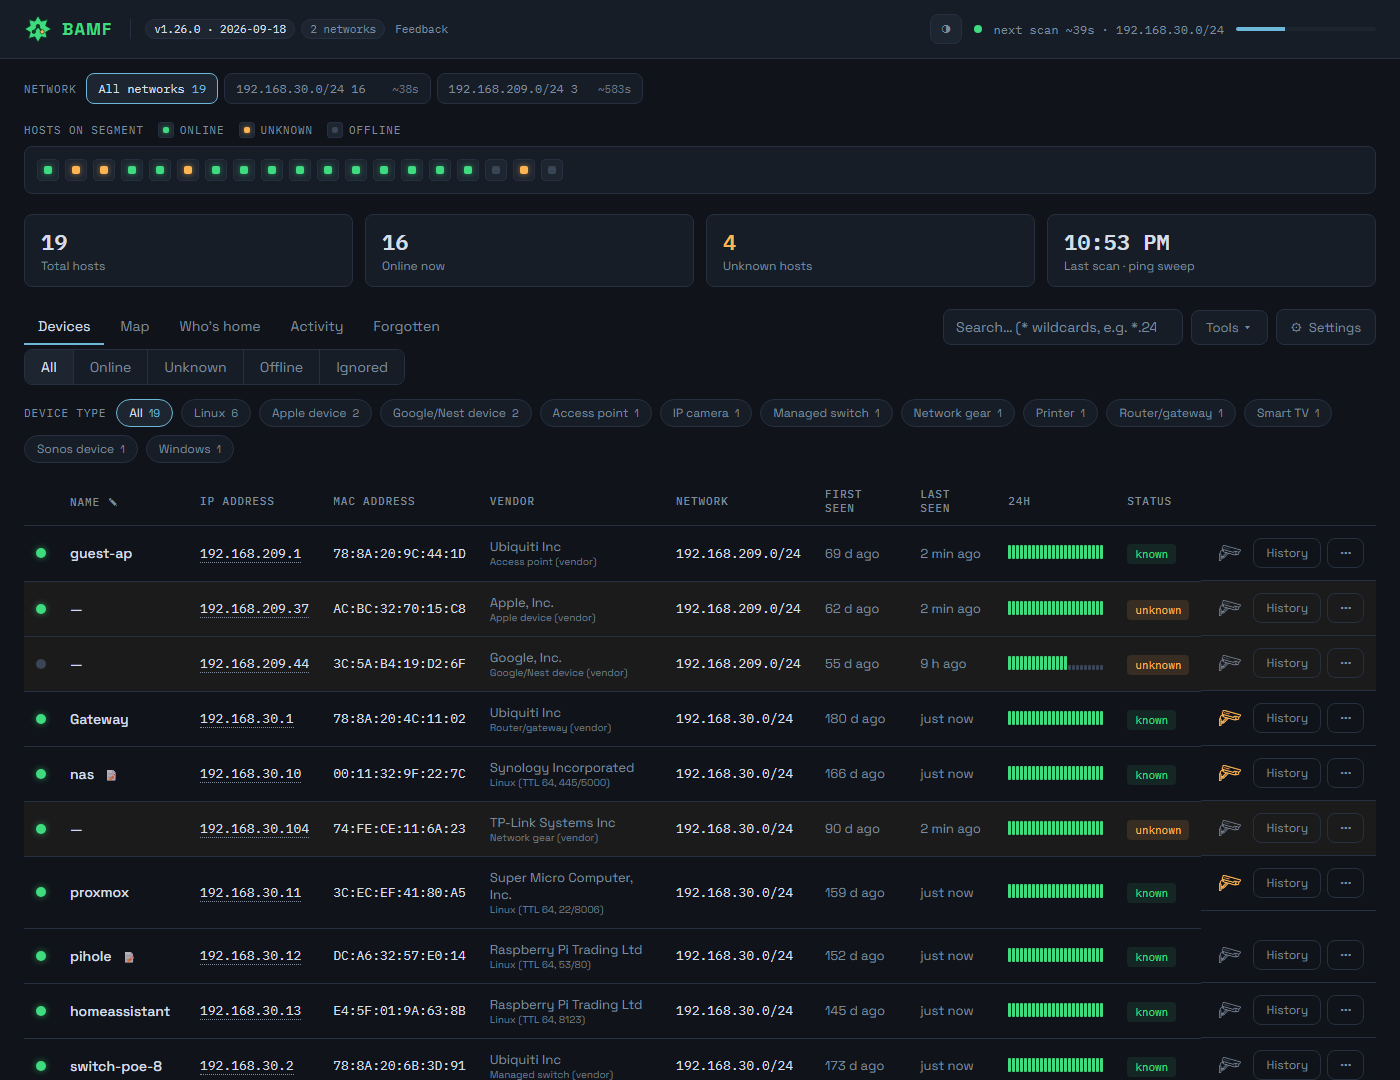
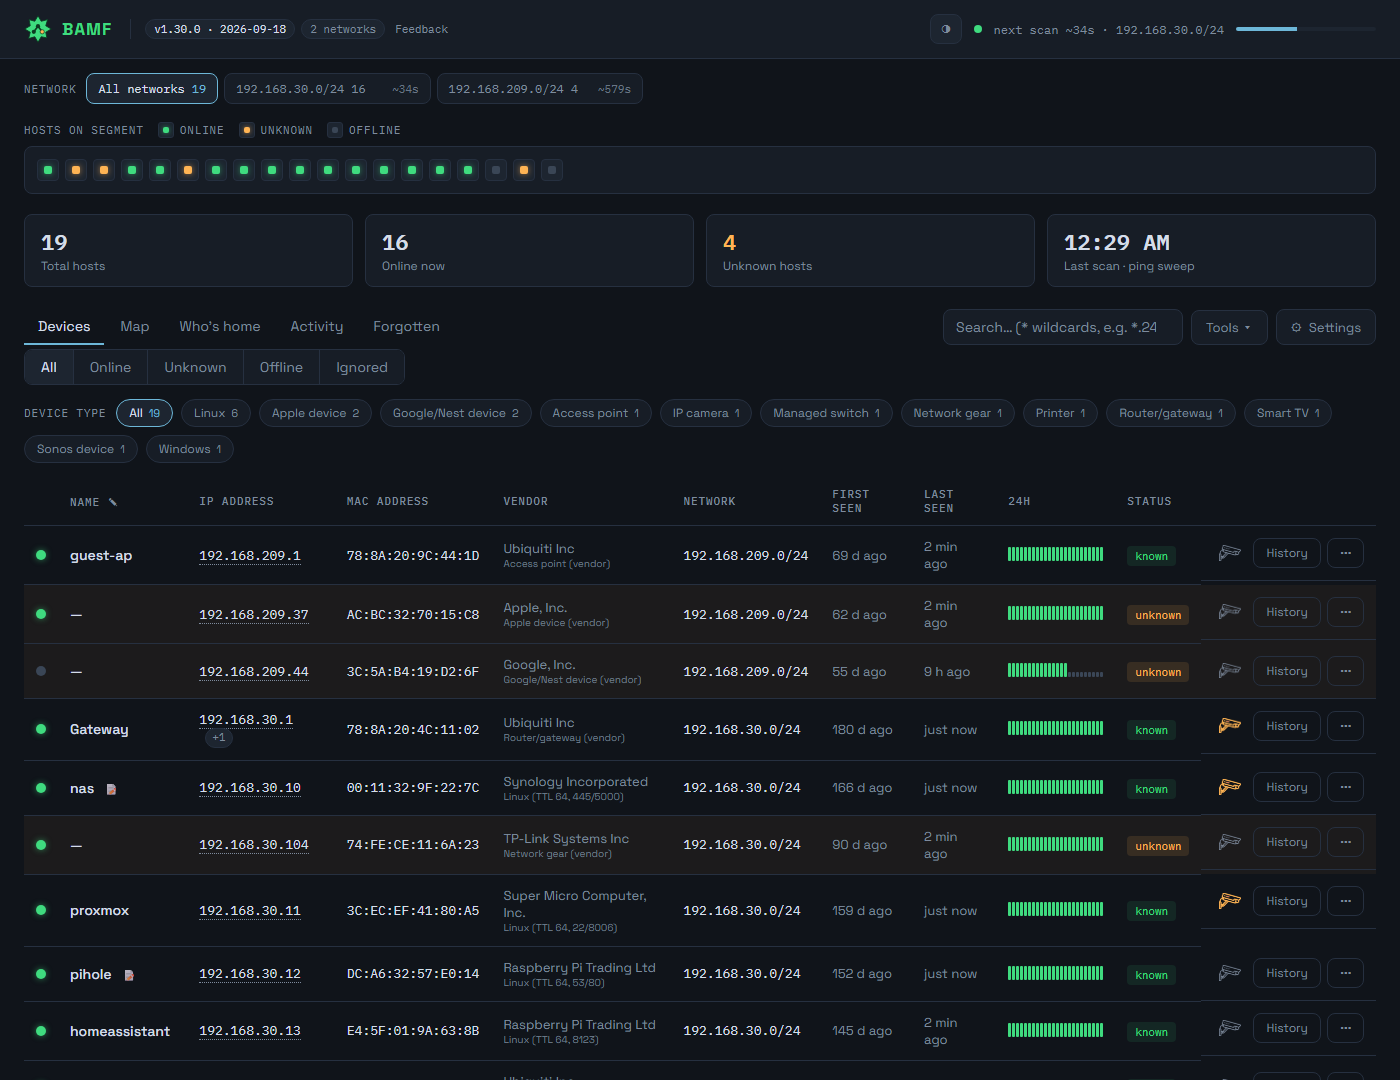
Recapture the README screenshots for 1.30.0 (#106)
All three taken on the demo database with 1.30.0. The dashboard shows the
+N chip on a device answering on two addresses. The Map shows a recorded
router with a device on its own port, a switch on its port 1, an access
point with its Wi-Fi clients and an office switch further along. Settings
now includes the Device icons card. Carries over the Map wording from #98.

diff --git a/README.md b/README.md
@@ -95,11 +95,12 @@ optional daily update check you have to switch on, and your own webhook.
 
 ### See how it's laid out
 
-![The Map tab as a network diagram: the gateway at the top with BAMF beside it, two recorded switches below it with their devices listed in port order and each port's location, an icon for each kind of device, and the Wi-Fi devices in an "On this network" box](docs/map.png)
+![The Map tab as a network diagram: the home router at the top with a device on its own port and BAMF beside it, a 16-port switch on the router's port 1 with its devices in port order and each port's location, an access point with its Wi-Fi clients, an office switch chained further along, and an icon for each kind of device](docs/map.png)
 
-The **Map** draws each network as a diagram: the router at the top, your
-switches under it, each switch's devices in port order with where the cable
-goes (`6 · Living Room`), and an icon for each kind of device. Cabling isn't
+The **Map** draws each network as a diagram: your router at the top with its own
+ports, your switches and access points under it, each one's devices in port
+order with where the cable goes (`6 · Living Room`), and an icon for each kind
+of device. Cabling isn't
 something ARP can see, so BAMF doesn't guess it. Record your switches under
 **Settings → Switches**, or just drag a device onto a switch on the map, and
 the map draws it as a cable. Anything you haven't recorded, like the Wi-Fi
